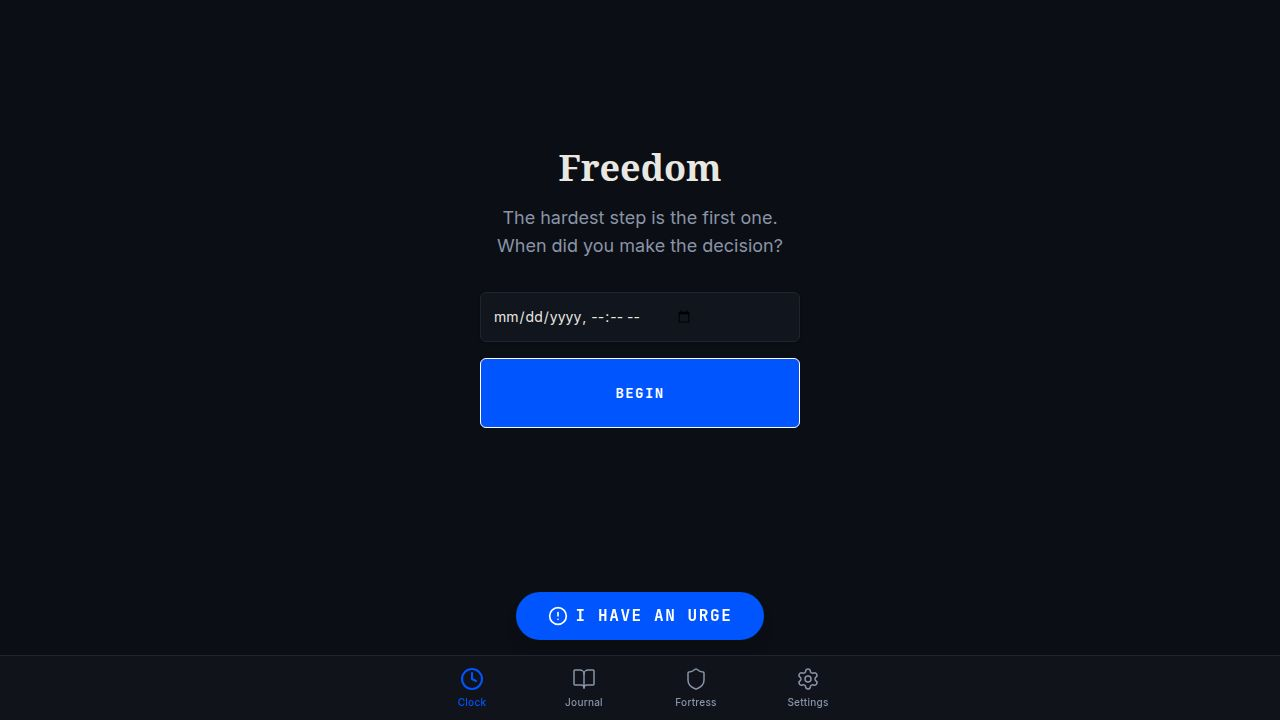
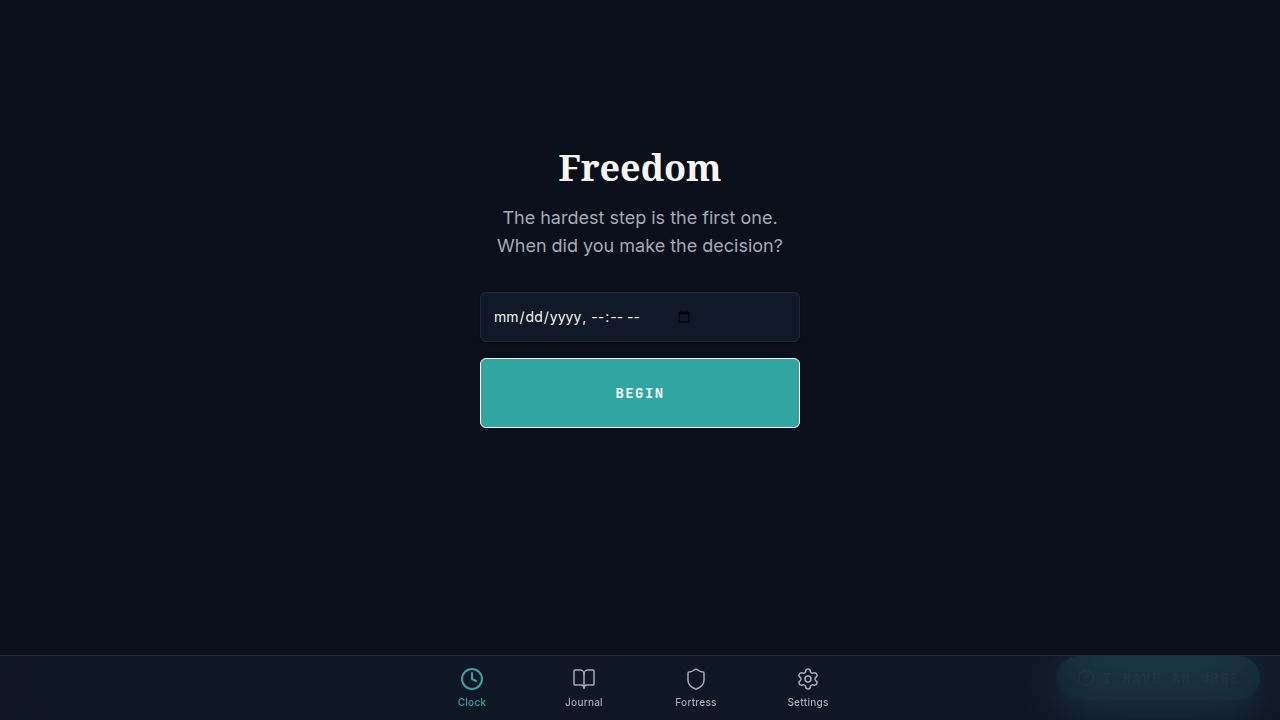
Update app colors, save fortress progress, and enhance timer reset functionality
Update color scheme to dark navy with teal accents, implement localStorage for Fortress checklist persistence, and replace the reset button with a pulsing "Danger Zone" button.

Replit-Commit-Author: Agent
Replit-Commit-Session-Id: 83e7fdc8-1424-4245-aaea-6a7a780ea94d
Replit-Commit-Checkpoint-Type: full_checkpoint
Replit-Commit-Event-Id: e642ae5f-4697-47f4-8c66-8c952f2837db
Replit-Commit-Screenshot-Url: https://storage.googleapis.com/screenshot-production-us-central1/aef0a230-cadb-492f-a99c-e4f60e594c09/83e7fdc8-1424-4245-aaea-6a7a780ea94d/T9Fs2mJ
Replit-Helium-Checkpoint-Created: true

diff --git a/artifacts/freedom/src/index.css b/artifacts/freedom/src/index.css
@@ -39,6 +39,10 @@
   --color-destructive-foreground: hsl(var(--destructive-foreground));
   --color-destructive-border: var(--destructive-border);
 
+  --color-success: hsl(var(--success));
+  --color-success-foreground: hsl(var(--success-foreground));
+  --color-stat: hsl(var(--stat));
+
   --font-sans: var(--app-font-sans);
   --font-mono: var(--app-font-mono);
 
@@ -56,33 +60,36 @@
   --elevate-1: rgba(0,0,0, .03);
   --elevate-2: rgba(0,0,0, .08);
 
-  --background: 220 30% 6%;
-  --foreground: 40 15% 90%;
-  --border: 220 20% 15%;
-  --card: 220 25% 9%;
-  --card-foreground: 40 15% 90%;
-  --card-border: 220 20% 15%;
-  --popover: 220 25% 9%;
-  --popover-foreground: 40 15% 90%;
-  --popover-border: 220 20% 15%;
-  --primary: 220 100% 50%;
+  --background: 220 45% 7%;
+  --foreground: 40 25% 96%;
+  --border: 220 25% 18%;
+  --card: 220 38% 11%;
+  --card-foreground: 40 25% 96%;
+  --card-border: 220 25% 18%;
+  --popover: 220 38% 11%;
+  --popover-foreground: 40 25% 96%;
+  --popover-border: 220 25% 18%;
+  --primary: 178 55% 42%;
   --primary-foreground: 0 0% 100%;
-  --secondary: 220 20% 15%;
-  --secondary-foreground: 40 15% 90%;
-  --muted: 220 20% 12%;
-  --muted-foreground: 220 15% 60%;
-  --accent: 220 100% 50%;
-  --accent-foreground: 0 0% 100%;
-  --destructive: 355 70% 51%;
+  --secondary: 220 25% 16%;
+  --secondary-foreground: 40 25% 96%;
+  --muted: 220 25% 13%;
+  --muted-foreground: 220 12% 68%;
+  --accent: 175 65% 55%;
+  --accent-foreground: 220 45% 7%;
+  --success: 145 45% 55%;
+  --success-foreground: 220 45% 7%;
+  --stat: 28 80% 62%;
+  --destructive: 0 72% 52%;
   --destructive-foreground: 0 0% 100%;
-  --input: 220 20% 15%;
-  --ring: 220 100% 50%;
+  --input: 220 25% 16%;
+  --ring: 178 55% 42%;
 
   --app-font-sans: 'Inter', sans-serif;
   --app-font-mono: 'JetBrains Mono', monospace;
   --radius: .5rem;
 
-  --shadow: 0px 2px 0px 0px hsl(220 100% 50% / 0.0), 0px 1px 2px -1px hsl(220 100% 50% / 0.0);
+  --shadow: 0px 2px 0px 0px hsl(178 55% 42% / 0.0), 0px 1px 2px -1px hsl(178 55% 42% / 0.0);
 }
 
 .dark {
@@ -93,29 +100,45 @@
   --elevate-1: rgba(255,255,255, .04);
   --elevate-2: rgba(255,255,255, .09);
 
-  --background: 220 30% 6%;
-  --foreground: 40 15% 90%;
-  --border: 220 20% 15%;
-  --card: 220 25% 9%;
-  --card-foreground: 40 15% 90%;
-  --card-border: 220 20% 15%;
-  --popover: 220 25% 9%;
-  --popover-foreground: 40 15% 90%;
-  --popover-border: 220 20% 15%;
-  --primary: 220 100% 50%;
+  --background: 220 45% 7%;
+  --foreground: 40 25% 96%;
+  --border: 220 25% 18%;
+  --card: 220 38% 11%;
+  --card-foreground: 40 25% 96%;
+  --card-border: 220 25% 18%;
+  --popover: 220 38% 11%;
+  --popover-foreground: 40 25% 96%;
+  --popover-border: 220 25% 18%;
+  --primary: 178 55% 42%;
   --primary-foreground: 0 0% 100%;
-  --secondary: 220 20% 15%;
-  --secondary-foreground: 40 15% 90%;
-  --muted: 220 20% 12%;
-  --muted-foreground: 220 15% 60%;
-  --accent: 220 100% 50%;
-  --accent-foreground: 0 0% 100%;
-  --destructive: 355 70% 51%;
+  --secondary: 220 25% 16%;
+  --secondary-foreground: 40 25% 96%;
+  --muted: 220 25% 13%;
+  --muted-foreground: 220 12% 68%;
+  --accent: 175 65% 55%;
+  --accent-foreground: 220 45% 7%;
+  --success: 145 45% 55%;
+  --success-foreground: 220 45% 7%;
+  --stat: 28 80% 62%;
+  --destructive: 0 72% 52%;
   --destructive-foreground: 0 0% 100%;
-  --input: 220 20% 15%;
-  --ring: 220 100% 50%;
+  --input: 220 25% 16%;
+  --ring: 178 55% 42%;
 
-  --shadow: 0px 2px 0px 0px hsl(220 100% 50% / 0.0), 0px 1px 2px -1px hsl(220 100% 50% / 0.0);
+  --shadow: 0px 2px 0px 0px hsl(178 55% 42% / 0.0), 0px 1px 2px -1px hsl(178 55% 42% / 0.0);
+}
+
+@keyframes danger-pulse {
+  0%, 100% {
+    box-shadow: 0 0 0 0 hsl(var(--destructive) / 0.55), 0 0 0 0 hsl(var(--destructive) / 0.0);
+  }
+  50% {
+    box-shadow: 0 0 0 8px hsl(var(--destructive) / 0.0), 0 0 18px 2px hsl(var(--destructive) / 0.35);
+  }
+}
+
+.danger-pulse {
+  animation: danger-pulse 2.2s ease-in-out infinite;
 }
 
 @layer base {

diff --git a/artifacts/freedom/src/pages/home.tsx b/artifacts/freedom/src/pages/home.tsx
@@ -145,19 +145,52 @@ export default function Home() {
         </div>
       </div>
 
-      <div className="flex flex-col items-center pt-8 space-y-4">
-        {urgeSessions.length > 0 && (
-          <div className="text-xs font-mono text-muted-foreground">
-            You've surfed {urgeSessions.length} urge{urgeSessions.length !== 1 ? 's' : ''}
-          </div>
-        )}
+      <div className="pt-4">
+        <div className="bg-card border border-card-border rounded-2xl p-6 space-y-6">
+          <h3 className="font-mono text-xs uppercase tracking-widest text-muted-foreground text-center">
+            Your Stats
+          </h3>
 
-        <Dialog open={isResetOpen} onOpenChange={setIsResetOpen}>
-          <DialogTrigger asChild>
-            <Button variant="ghost" className="text-destructive/50 hover:text-destructive hover:bg-destructive/10 text-xs font-mono uppercase tracking-widest">
-              Reset Timer
-            </Button>
-          </DialogTrigger>
+          <div className="grid grid-cols-3 gap-4 text-center">
+            <div className="space-y-1">
+              <div className="text-3xl font-bold tabular-nums" style={{ color: "hsl(var(--stat))" }}>
+                {days}
+              </div>
+              <div className="text-[10px] font-mono uppercase tracking-widest text-muted-foreground">
+                Days
+              </div>
+            </div>
+            <div className="space-y-1">
+              <div className="text-3xl font-bold tabular-nums" style={{ color: "hsl(var(--stat))" }}>
+                {urgeSessions.length}
+              </div>
+              <div className="text-[10px] font-mono uppercase tracking-widest text-muted-foreground">
+                Urges Surfed
+              </div>
+            </div>
+            <div className="space-y-1">
+              <div className="text-3xl font-bold tabular-nums" style={{ color: "hsl(var(--stat))" }}>
+                {MILESTONES.filter((m) => days >= m.days).length}
+              </div>
+              <div className="text-[10px] font-mono uppercase tracking-widest text-muted-foreground">
+                Milestones
+              </div>
+            </div>
+          </div>
+
+          <div className="pt-2 border-t border-border/60 flex flex-col items-center">
+            <span className="text-[10px] font-mono uppercase tracking-[0.25em] text-muted-foreground/70 mb-3">
+              Danger Zone
+            </span>
+            <Dialog open={isResetOpen} onOpenChange={setIsResetOpen}>
+              <DialogTrigger asChild>
+                <button
+                  className="danger-pulse bg-destructive text-destructive-foreground font-mono font-bold uppercase tracking-widest text-xs px-8 py-3 rounded-full hover:brightness-110 active:scale-95 transition-all"
+                  data-testid="button-danger-zone-reset"
+                >
+                  Reset Timer
+                </button>
+              </DialogTrigger>
           <DialogContent className="bg-card border-border sm:max-w-md">
             <DialogHeader>
               <DialogTitle className="text-foreground font-serif text-2xl">Reset Timer</DialogTitle>
@@ -197,6 +230,8 @@ export default function Home() {
             </DialogFooter>
           </DialogContent>
         </Dialog>
+          </div>
+        </div>
       </div>
     </div>
   );

diff --git a/artifacts/freedom/src/components/layout.tsx b/artifacts/freedom/src/components/layout.tsx
@@ -16,21 +16,23 @@ export default function Layout({ children }: { children: React.ReactNode }) {
 
   return (
     <div className="min-h-[100dvh] flex flex-col bg-background text-foreground overflow-x-hidden">
-      <main className="flex-1 w-full max-w-md mx-auto pb-24 relative px-4">
+      <main
+        className="flex-1 w-full max-w-md mx-auto relative px-4"
+        style={{ paddingBottom: "calc(120px + env(safe-area-inset-bottom))" }}
+      >
         {children}
       </main>
 
       {/* Floating Urge Button - only show if not in urge mode */}
       {!isUrgeSurfing && (
-        <div className="fixed bottom-20 left-0 right-0 z-40 pointer-events-none flex justify-center px-4">
-          <button
-            onClick={() => setIsUrgeSurfing(true)}
-            className="pointer-events-auto bg-primary text-primary-foreground font-mono font-bold uppercase tracking-widest px-8 py-3 rounded-full shadow-lg flex items-center gap-2 active:scale-95 transition-transform"
-          >
-            <AlertCircle size={20} />
-            I have an urge
-          </button>
-        </div>
+        <button
+          onClick={() => setIsUrgeSurfing(true)}
+          style={{ bottom: "20px", right: "20px" }}
+          className="fixed z-40 bg-primary text-primary-foreground font-mono font-bold uppercase tracking-widest text-sm px-5 py-3 rounded-full shadow-xl shadow-primary/30 flex items-center gap-2 active:scale-95 transition-transform hover:bg-accent"
+        >
+          <AlertCircle size={18} />
+          I have an urge
+        </button>
       )}
 
       {/* Bottom Tab Bar */}

diff --git a/artifacts/freedom/src/pages/fortress.tsx b/artifacts/freedom/src/pages/fortress.tsx
@@ -91,11 +91,11 @@ export default function Fortress() {
                 const isChecked = fortressItems.includes(item.id);
                 return (
                   <div key={item.id} className="flex items-start space-x-3">
-                    <Checkbox 
-                      id={item.id} 
+                    <Checkbox
+                      id={item.id}
                       checked={isChecked}
                       onCheckedChange={() => toggleFortressItem(item.id)}
-                      className="mt-1 data-[state=checked]:bg-primary data-[state=checked]:text-primary-foreground border-muted-foreground/50"
+                      className="mt-1 data-[state=checked]:bg-success data-[state=checked]:text-success-foreground data-[state=checked]:border-success border-muted-foreground/50"
                     />
                     <div className="space-y-1">
                       <Label 
